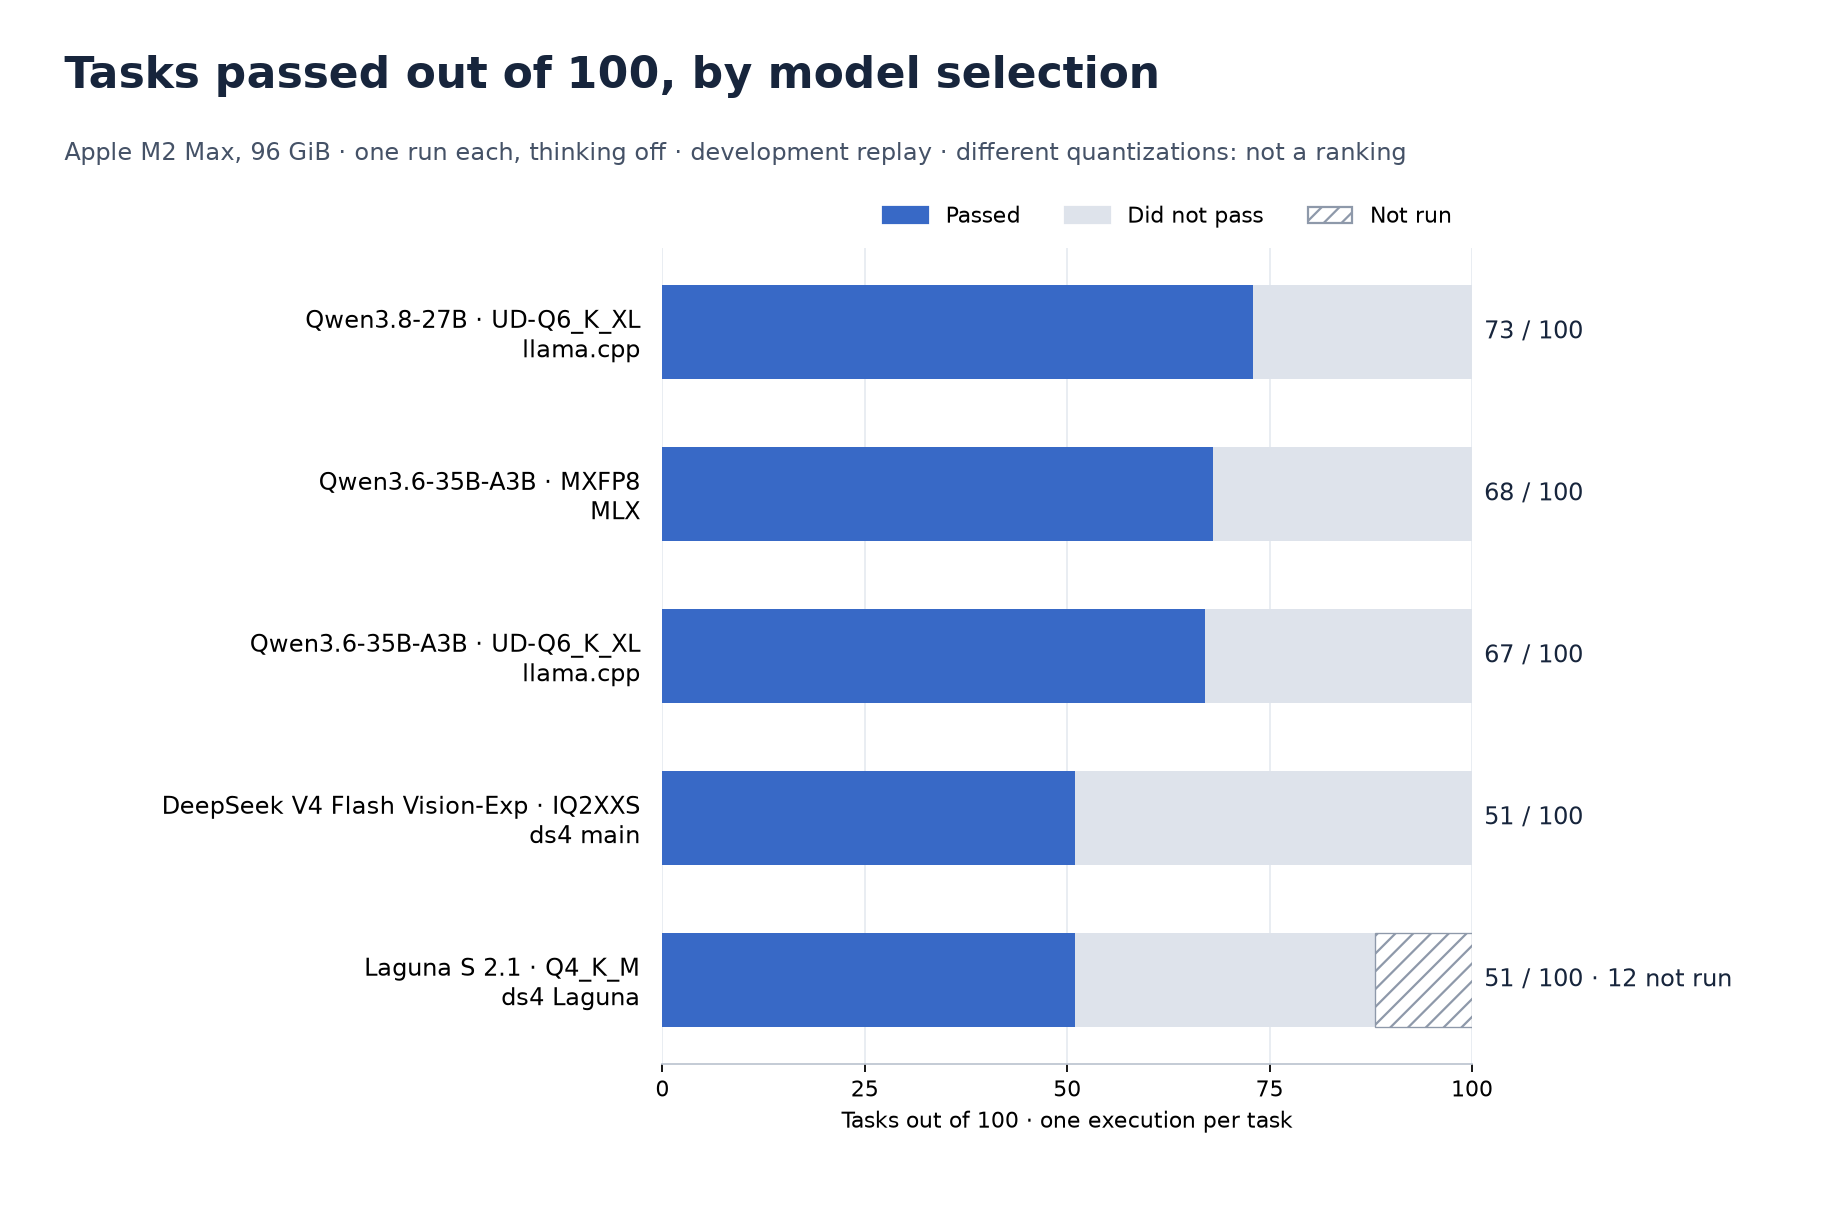
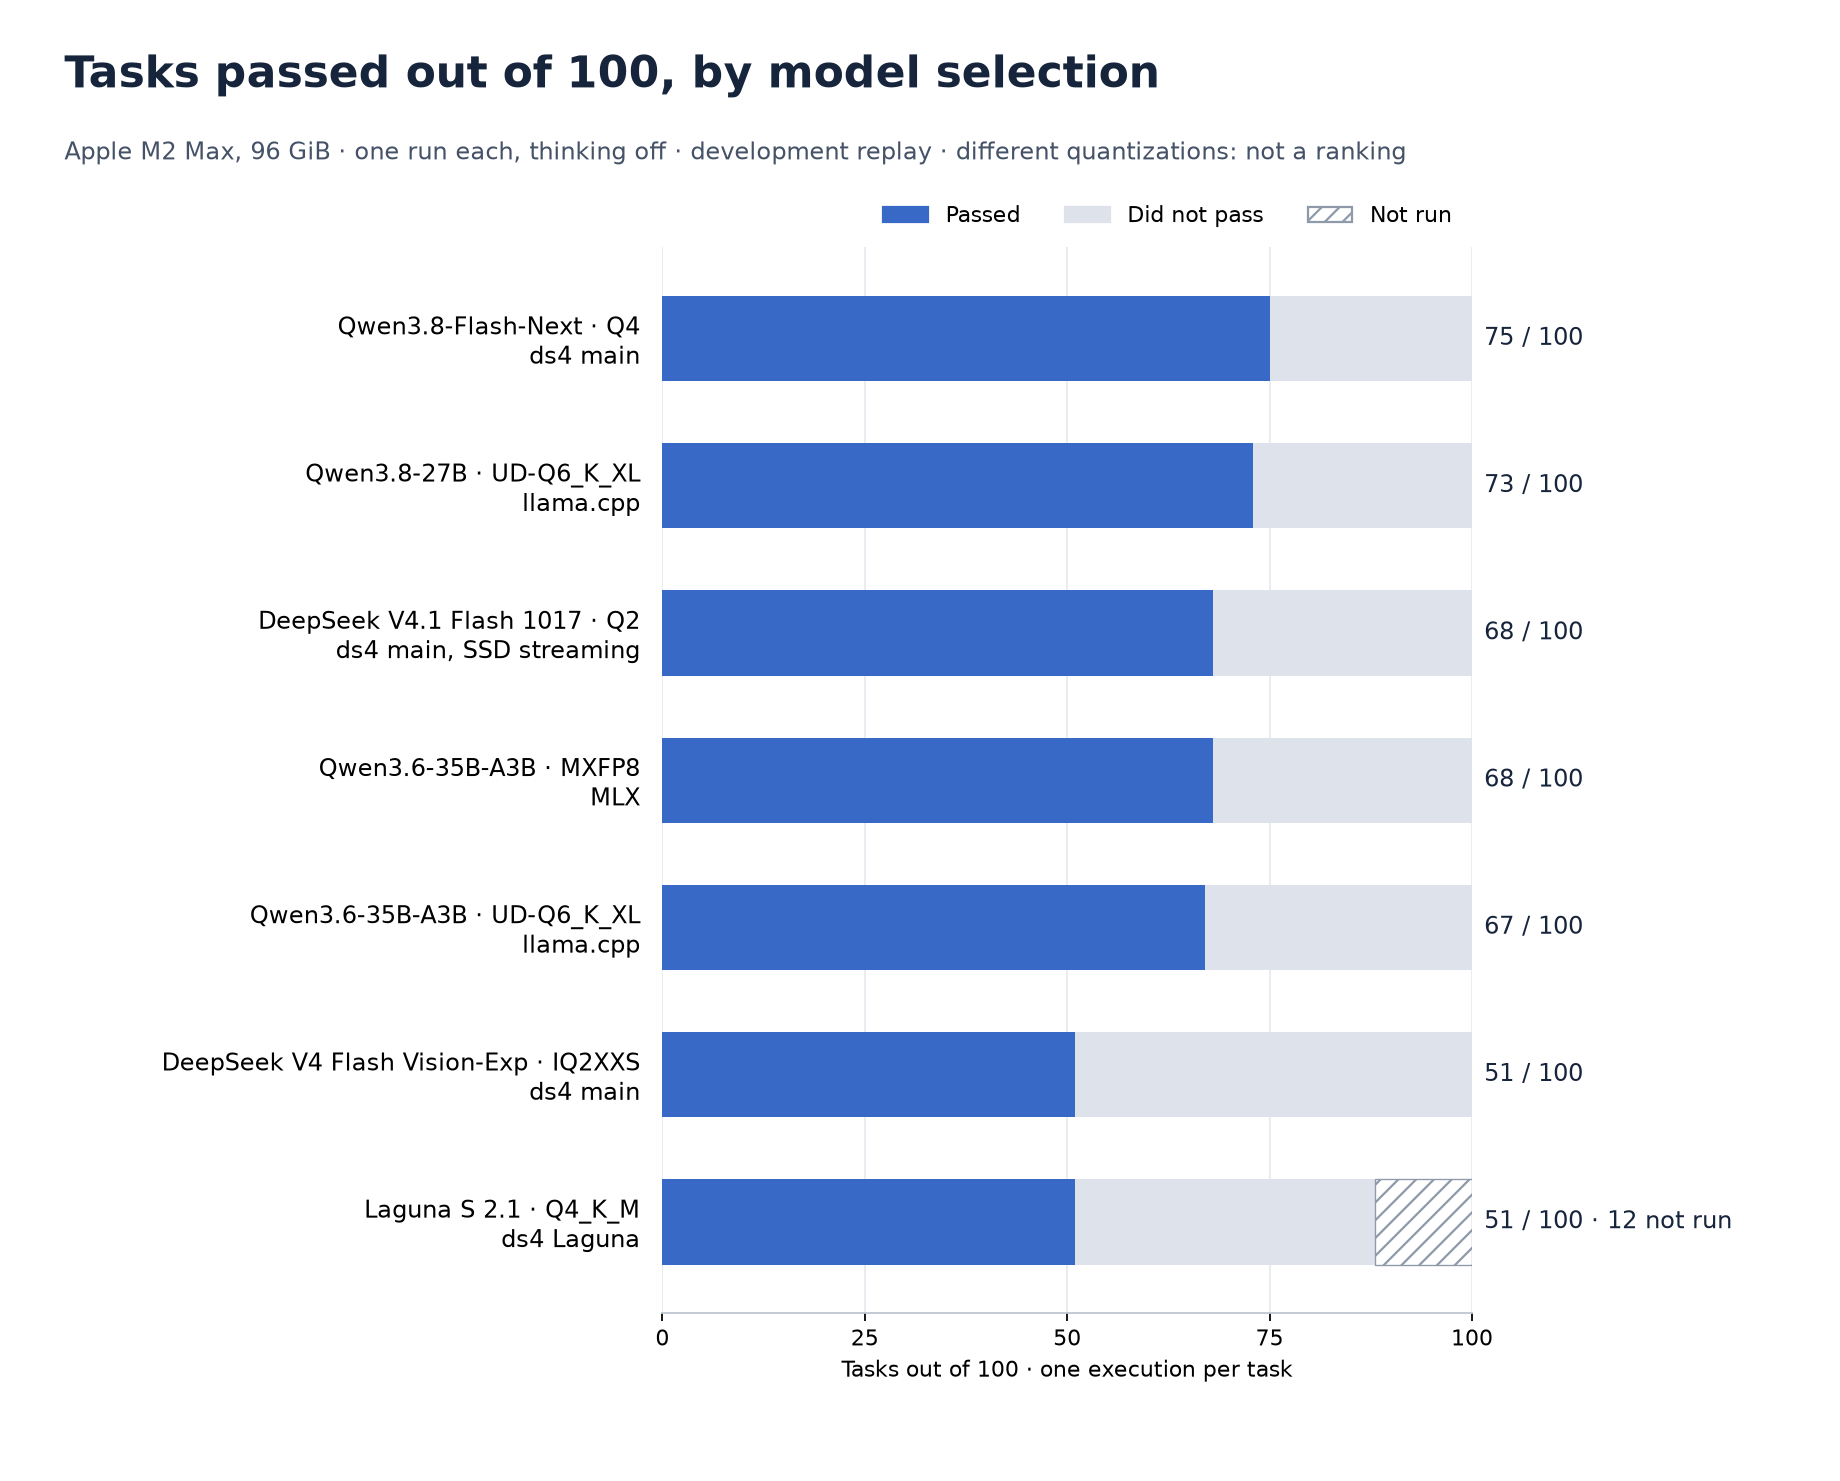
Publish the Next Q4 and V4.1 1017 Q2 corpus results; diagnose Laguna
Qwen3.8-Flash-Next Q4 scored 75/100 (long texts 8/8) and DeepSeek V4.1
Flash 1017 Q2, a 366 GB file run with expert SSD streaming on 96 GiB,
68/100 (long texts 4/8). Every request of both runs returned a complete
answer; the failures are answers and formats. Every selection that can run
on this machine now has a published result; none reaches the 100/100 gate.

Laguna's diagnostic rerun (retained, not counted) with restarts and no
other job on the machine reached 56/100 and failed all eight long texts
again: macOS ended the GPU command batch with its "impacting
interactivity" error inside Laguna's second fixed 16,384-token prefill
batch. The failure does not depend on other load; a smaller Laguna
prefill batch needs a patch and a numerical comparison.

diff --git a/extension/benchmarks/qwen-quality/plot-results.py b/extension/benchmarks/qwen-quality/plot-results.py
@@ -51,11 +51,22 @@ REVIEWED = {
         "name": "DeepSeek V4 Flash Vision-Exp · IQ2XXS\nds4 main",
         "caption": f"DeepSeek V4 Flash Vision-Exp · IQ2XXS · ds4 main 890898c · {M2} · 11 November 2026",
         "footnote": "All fifteen programs came inside Markdown fences, which the tasks forbid. Failed cases are not retried or replaced."},
[1 lines of base64/hex data omitted]
+        "dir": CAMPAIGN, "results": "2026-11-11-qwen38-next-q4.json", "chart": "qwen38-next-q4.png",
+        "name": "Qwen3.8-Flash-Next · Q4\nds4 main",
+        "caption": f"Qwen3.8-Flash-Next · single-file Q4 · ds4 main 890898c · {M2} · 11 November 2026",
+        "footnote": "Resident backbone; the original BF16 n-gram tables are read from SSD. Failed cases are not retried or replaced."},
[1 lines of base64/hex data omitted]
+        "dir": CAMPAIGN, "results": "2026-11-11-deepseek-v41-1017-q2-ssd.json", "chart": "deepseek-v41-1017-q2-ssd.png",
+        "name": "DeepSeek V4.1 Flash 1017 · Q2\nds4 main, SSD streaming",
+        "caption": f"DeepSeek V4.1 Flash 1017 · IQ2_XXS/Q2_K (366 GB) · ds4 main 890898c · expert SSD streaming · {M2} · 11 November 2026",
+        "footnote": "Experts are streamed from SSD: the model is about four times the machine's memory. Failed cases are not retried or replaced."},
 }
 # The family overviews compare reviewed runs graded by one corpus identity.
 FAMILIES = [{
     "dir": CAMPAIGN, "chart": "overview.png",
-    "results": ["2026-11-11-qwen27-q6-llama.json", "2026-11-10-qwen36-mxfp8-mlx.json",
+    "results": ["2026-11-11-qwen38-next-q4.json", "2026-11-11-qwen27-q6-llama.json",
+                "2026-11-11-deepseek-v41-1017-q2-ssd.json", "2026-11-10-qwen36-mxfp8-mlx.json",
                 "2026-11-10-qwen36-q6-llama.json", "2026-11-11-deepseek-v4-vision-exp-iq2xxs.json",
                 "2026-11-11-laguna-s21-q4.json"],
     "title": "Tasks passed out of 100, by model selection",

diff --git a/docs/benchmarks/quality-multihardware/README.md b/docs/benchmarks/quality-multihardware/README.md
@@ -13,40 +13,50 @@ quantizations and engines, so the bars are not a ranking.
 
 | Selection | Engine | Passed | Did not pass | Not run | Category chart |
 | --- | --- | ---: | ---: | ---: | --- |
+| Qwen3.8-Flash-Next single-file Q4 | ds4 main `890898c` | 75 | 25 | 0 | [chart](qwen38-next-q4.png) |
 | Qwen3.8-27B UD-Q6_K_XL | llama.cpp `b11836` | 73 | 27 | 0 | [chart](qwen27-q6-llama.png) |
+| DeepSeek V4.1 Flash 1017 IQ2_XXS/Q2_K, expert SSD streaming | ds4 main `890898c` | 68 | 32 | 0 | [chart](deepseek-v41-1017-q2-ssd.png) |
 | Qwen3.6-35B-A3B MXFP8 | MLX (mlx-lm 0.32.2) | 68 | 32 | 0 | [chart](qwen36-mxfp8-mlx.png) |
 | Qwen3.6-35B-A3B UD-Q6_K_XL | llama.cpp `b11836` | 67 | 33 | 0 | [chart](qwen36-q6-llama.png) |
 | DeepSeek V4 Flash Vision-Exp IQ2XXS | ds4 main `890898c` | 51 | 49 | 0 | [chart](deepseek-v4-vision-exp-iq2xxs.png) |
 | Laguna S 2.1 Q4_K_M | ds4 Laguna `448d569` | 51 | 37 | 12 | [chart](laguna-s21-q4.png) |
 
-Selections of the campaign without a published result yet: Qwen3.8-Flash-Next
-Q4, DeepSeek V4.1 Flash 1017 Q2 (expert SSD streaming only) and
-Qwen3.8-Flash-Next Q2 (no weights on this machine: blocked). DeepSeek V4.1 Q4 and GLM 5.3 Flash are left to contributors with
-suitable hardware.
+Every selection that can run on this machine now has a result. Qwen3.8-Flash-Next
+Q2 is blocked (no weights on this machine); DeepSeek V4.1 Q4 and GLM 5.3 Flash
+are left to contributors with suitable hardware.
+
+DeepSeek V4.1 Flash 1017 is a 366 GB file on a machine with 96 GiB: it runs
+only with expert SSD streaming, the one memory mode in which the maintainer
+qualifies it, and the run records that mode as effective. Qwen3.8-Flash-Next
+keeps its backbone resident and reads its original BF16 n-gram tables from the
+SSD.
 
 ## What failed
 
 Passed tasks by category (passed / tasks):
 
-| Category | Qwen3.8-27B | Qwen3.6 MXFP8 (MLX) | Qwen3.6 Q6 (llama.cpp) | DeepSeek V4 Vision-Exp | Laguna S 2.1 |
-| --- | ---: | ---: | ---: | ---: | ---: |
-| Arithmetic and units | 2 / 12 | 1 / 12 | 5 / 12 | 2 / 12 | 3 / 12 |
-| Reasoning | 6 / 12 | 6 / 12 | 7 / 12 | 7 / 12 | 7 / 12 |
-| Writing code | 12 / 15 | 13 / 15 | 7 / 15 | 0 / 15 | 6 / 15 |
-| Fixing bugs | 5 / 10 | 4 / 10 | 5 / 10 | 1 / 10 | 1 / 10 |
-| JSON structure | 9 / 10 | 9 / 10 | 8 / 10 | 8 / 10 | 9 / 10 |
-| Extracting facts | 9 / 10 | 9 / 10 | 9 / 10 | 7 / 10 | 9 / 10 |
-| Following instructions | 10 / 10 | 8 / 10 | 8 / 10 | 8 / 10 | 8 / 10 |
-| Italian and English | 8 / 8 | 8 / 8 | 8 / 8 | 8 / 8 | 8 / 8 |
-| Long texts | 7 / 8 | 5 / 8 | 5 / 8 | 6 / 8 | 0 / 8 (7 not run) |
-| Recognising missing information | 5 / 5 | 5 / 5 | 5 / 5 | 4 / 5 | 0 / 5 (not run) |
+| Category | Next Q4 | Qwen3.8-27B | V4.1 1017 Q2 (SSD) | Qwen3.6 MXFP8 (MLX) | Qwen3.6 Q6 (llama.cpp) | DeepSeek V4 Vision-Exp | Laguna S 2.1 |
+| --- | ---: | ---: | ---: | ---: | ---: | ---: | ---: |
+| Arithmetic and units | 3 / 12 | 2 / 12 | 1 / 12 | 1 / 12 | 5 / 12 | 2 / 12 | 3 / 12 |
+| Reasoning | 6 / 12 | 6 / 12 | 6 / 12 | 6 / 12 | 7 / 12 | 7 / 12 | 7 / 12 |
+| Writing code | 11 / 15 | 12 / 15 | 10 / 15 | 13 / 15 | 7 / 15 | 0 / 15 | 6 / 15 |
+| Fixing bugs | 6 / 10 | 5 / 10 | 6 / 10 | 4 / 10 | 5 / 10 | 1 / 10 | 1 / 10 |
+| JSON structure | 10 / 10 | 9 / 10 | 10 / 10 | 9 / 10 | 8 / 10 | 8 / 10 | 9 / 10 |
+| Extracting facts | 9 / 10 | 9 / 10 | 9 / 10 | 9 / 10 | 9 / 10 | 7 / 10 | 9 / 10 |
+| Following instructions | 9 / 10 | 10 / 10 | 9 / 10 | 8 / 10 | 8 / 10 | 8 / 10 | 8 / 10 |
+| Italian and English | 8 / 8 | 8 / 8 | 8 / 8 | 8 / 8 | 8 / 8 | 8 / 8 | 8 / 8 |
+| Long texts | 8 / 8 | 7 / 8 | 4 / 8 | 5 / 8 | 5 / 8 | 6 / 8 | 0 / 8 (7 not run) |
+| Recognising missing information | 5 / 5 | 5 / 5 | 5 / 5 | 5 / 5 | 5 / 5 | 4 / 5 | 0 / 5 (not run) |
 
 Most failures are answers and formats, not transport: wrong arithmetic, a
 correct value wrapped in a JSON object the task did not ask for, code inside
 Markdown fences, and replies that are not the requested unified diff. A correct
 value in the wrong container **stays failed** and receives no partial credit;
-the aggregates count it separately (10 tasks for Qwen3.8-27B, 6 for Qwen3.6 on
-MLX, 2 for Qwen3.6 on llama.cpp, 5 for DeepSeek V4, 6 for Laguna).
+the aggregates count it separately (7 tasks for Next Q4, 10 for Qwen3.8-27B,
+7 for V4.1, 6 for Qwen3.6 on MLX, 2 for Qwen3.6 on llama.cpp, 5 for DeepSeek
+V4, 6 for Laguna). Every request of the Next Q4, V4.1 and DeepSeek V4 runs
+returned a complete answer: none of their failures is a transport or engine
+error.
 
 DeepSeek V4 Flash Vision-Exp returned all fifteen programs, and seven of its
 ten patches, inside Markdown fences, although each task says to return only
@@ -57,9 +67,21 @@ correct. All eight of its long texts completed (about five minutes each).
 The Laguna run is incomplete. On its first long text the engine answered
 HTTP 500 (`metal Laguna prefill failed at token 32768`) and the twelve tasks
 after it were not run; they stay in the denominator. That run had no engine
-restart between tasks. The cause is **not established**: macOS ended a GPU
-command batch while other jobs were using the machine, and whether the failure
-also happens on an idle machine has not been checked yet.
+restart between tasks.
+
+A diagnostic rerun on the same engine and weights, with an engine restart
+after each failed task and no other model or browser job on the machine
+(`engine-acceptance/run-tAqoKo`, retained but **not counted**: the first run
+is the result), reached 56/100. All eight long texts failed again with HTTP
+500 after 78–134 s, now at token 16,384, while the other categories completed
+(missing information 5/5). In every case macOS ended the GPU command batch
+with `kIOGPUCommandBufferCallbackErrorImpactingInteractivity`, its error for
+GPU work that keeps the display from updating, inside the second prefill
+batch. Laguna prefills in fixed batches of 16,384 tokens and ignores
+`--prefill-chunk`; the second batch also attends to the first 16,384 tokens.
+So the failure does not depend on other load. A smaller Laguna prefill batch,
+as main has, needs a DStudio patch and a numerical comparison with the
+16,384-token batch; that work is open.
 
 ## What this measures
 
